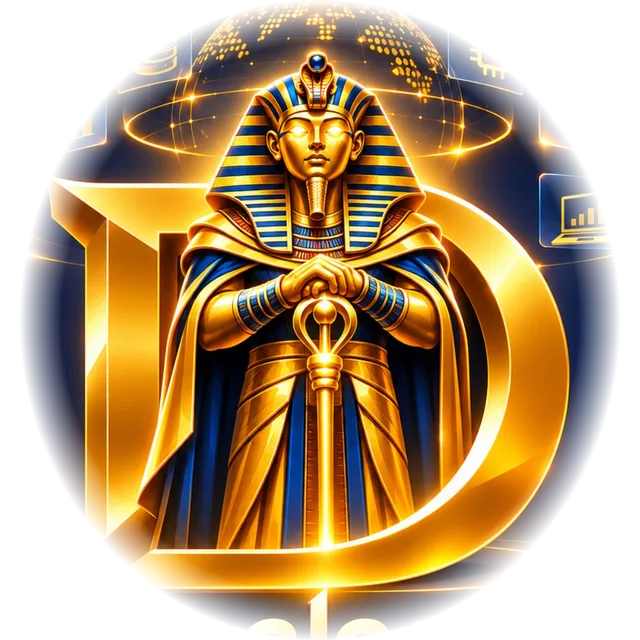
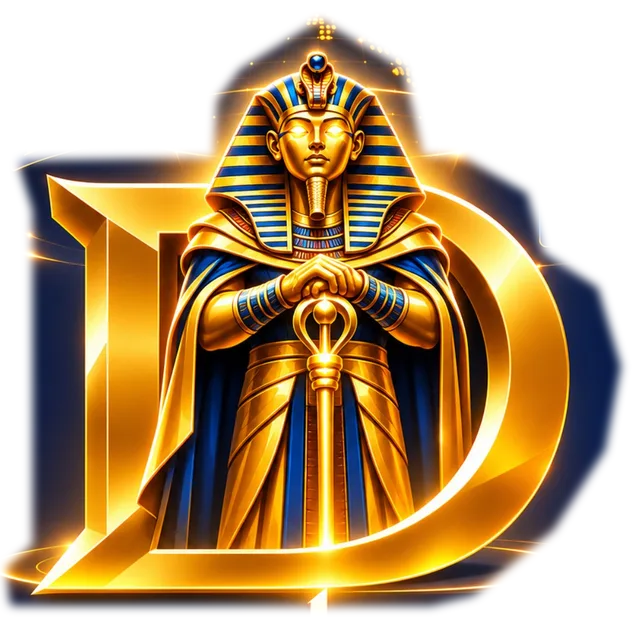
Remove sources page and source names; linked-circle dock; emblem outline; page purpose lines

Changed region(s): [[0.0, 0.0, 1.0, 1.0]]

diff --git a/src/panels/guide.html b/src/panels/guide.html
@@ -1,10 +1,28 @@
-<section id="faq"><div class="section-head"><h2>أسئلة الذهب — دليل سريع للمعلومة</h2></div><details><summary>سعر الذهب كام، وأقدر أبيع ذهبي بكام؟</summary><p>كل بطاقة في صفحة السوق تعرض السعرين: السعر الذي يبيع به التاجر لك، والسعر الذي يشتري به منك، والفرق بينهما.</p></details><details><summary>إيه الدولار الضمني؟ وهل أقدر أشتري دولار بالسعر ده؟</summary><p>قسمة سعر جرام 24 المحلي على قيمته العالمية بالدولار. مؤشر مستنتج من الذهب وليس سعر صرف قابلًا للتنفيذ.</p></details><details><summary>المصنعية والدمغة والضريبة داخلين في الأرقام؟</summary><p>حسابات المقارنة والجرامات لا تشملها. نحتاج عرضًا نهائيًا معلنًا للمنتج لتحديد تكلفته؛ لا نقدّر السعر النهائي للجنيه الذهب بضرب الجرام في الوزن.</p></details><details><summary>أعرف منين السعر حديث؟</summary><p>تحت كل بطاقة وقت المصدر، وفي الجدول وقت الجلب منفصلًا. شارة المقارنة تميز القراءات المتزامنة عن الحساب الاسترشادي. تحديث الصفحة لا يعني صدور سعر جديد من البنك.</p></details><details><summary>المتوسطات والنطاقات بتحدد القاع؟</summary><p>تصف الحركة التاريخية والافتراضات الحسابية ولا تضمن اتجاهًا أو قاعًا. التوقعات آراء مؤرخة، وحالة توثيق كل جهة ظاهرة معها.</p></details><details><summary>الجنيه الذهب أرخص فين؟ وهل فيه تنبيهات؟</summary><p>في أسعار المنتجات تجد ربع ونصف الجنيه والجنيه والسبائك والأونصة، مع الرسوم وحالة التوثيق. تنبيهات الزوار لم تُفعّل بعد. لا نعلن الأرخص عند غياب عروض نهائية متزامنة لنفس المنتج.</p></details><details><summary>أقدر أشتري من المنصة أو أشترك في التنبيهات؟</summary><p>المنصة للمتابعة وعرض المصادر؛ الشراء والسعر النهائي لدى المتجر صاحب العرض. تنبيهات الزوار لم تُفعّل بعد.</p></details><details><summary>هل كل الأسعار المعروضة نهائية وشاملة المصنعية؟</summary><p>سعر الجرام في السوق بدون مصنعية. عروض المنتجات تسجل ما أعلنه المتجر؛ إذا لم يتأكد شمول رسوم أو وقت السعر يظهر ذلك بجوار العرض. لا يعني جمع الصفحة الآن أن المتجر أصدر السعر الآن.</p></details><details><summary>إزاي أبلّغ عن رقم أو مصدر فيه مشكلة؟</summary><p><a href="https://github.com/ahmedmah1989/gold-board/issues/new" target="_blank" rel="noopener">أرسل ملاحظة عن البيانات ↗</a>. البلاغ يفتح على GitHub وقد يحتاج حسابًا ويكون ظاهرًا للعامة؛ لا تكتب معلومات شخصية أو مفاتيح سرية.</p></details><details><summary>هل المنصة تطلب بيانات شخصية؟</summary><p>قراءة الأسعار والحاسبة لا تحتاج حسابًا أو بيانات تواصل. مراجع التنبيهات المحلية تُحفظ في متصفحك. جلب الأونصة يتصل من متصفحك بمزوّد Gold API، والرسم المباشر بخدمة TradingView الخارجية، كما تفتح روابط المنتجات مواقع المتاجر.</p></details><details><summary>أشتري دلوقتي ولا أستنى؟</summary><p>المنصة تعرض السعر والفجوة والاتجاه وحدود البيانات، ولا تصدر قرار شراء آليًا. غياب توثيق المصدر أو التكاليف النهائية يعني أن المعروض وحده لا يكفي لحسم القرار.</p></details></section><section id="method"><h2>طريقة الحساب وحدود البيانات</h2><details><summary>المعادلات المستخدمة</summary><ul><li>جرام 24 بالدولار = سعر الأونصة ÷ 31.1034768.</li><li>القيمة العالمية بالجنيه = جرام 24 بالدولار × سعر بيع الدولار في بنك مصر.</li><li>الفجوة = بيع عيار 24 المحلي − القيمة العالمية بالجنيه؛ نسبتها محسوبة على القيمة العالمية.</li><li>الدولار الضمني = بيع جرام 24 المحلي ÷ قيمته العالمية بالدولار.</li><li>نقاوة عيار 21 = 21 ÷ 24. المقارنة لا تشمل رسوم المنتج النهائي.</li></ul></details><details><summary>كيف تقرأ حالة المقارنة؟</summary><p>«متزامنة» عندما تكون أوقات المصادر في آخر 5 دقائق والفارق بينها لا يتجاوز 5 دقائق. خلاف ذلك تُعرض المقارنة كحساب استرشادي من آخر أسعار منشورة، مع أوقاتها، ولا تعتبر إشارة لحظية. تُحجب المقارنة عند فقد مصدر أو وقت تسعير، أو إذا تجاوز عمر أي قراءة 24 ساعة أو كان توقيتها في المستقبل بأكثر من دقيقتين.</p><p>صحة الحساب لا تضمن صحة مصدر خارجي أو إمكانية تنفيذ صفقة. التوقعات محفوظة في قسم التحليل بحالة تدقيق كل مصدر. القمم اليومية محسوبة من السلسلة المرجعية ولا تعني أعلى سعر محلي خلال الجلسة.</p></details><details><summary>أساس كل قاعدة في التحليل</summary><ul>
-<li><strong>القيمة العالمية المحوّلة (حساب مباشر):</strong> الأونصة × الدولار ÷ 31.1034768 جرام × 0.875 (نقاوة عيار 21). هذا سعر الخام بدون مصنعية ولا دمغة.</li>
-<li><strong>حدود العلاوة 2% و4% (حد تقديري):</strong> حدود وصفية اختيرت للواجهة وليست معيارًا مثبتًا للسعر العادل. لا تثبت جودة العرض أو شمول رسومه.</li>
-<li><strong>عيار 18 (محسوب):</strong> سعر عيار 24 المنشور × 18 ÷ 24. ليس سعرًا منشورًا من المصدر، وقد يختلف قليلًا عن سعر التاجر.</li>
-<li><strong>المتوسطات وقراءة الاتجاه:</strong> توجد أبحاث عن متابعة الاتجاه، لكن نتيجة استراتيجية على مؤشر أو سلع لا تثبت صلاحيتها للذهب المصري. اللوحة تعرض متوسط 50 و200 قراءة مرجعية، ولا تنفذ استراتيجية شراء. <a href="https://mebfaber.com/white-papers/" target="_blank" rel="noopener">أبحاث المؤلف الأصلية</a></li>
-<li><strong>دفعات أم مبلغ واحد؟</strong> وجدت Vanguard تفوق الاستثمار مرة واحدة في نحو ثلثي المقارنات التاريخية التي درستها؛ النتيجة تخص أسواق الدراسة وليست اختبارًا مباشرًا للذهب المصري. <a href="https://www.vanguard.co.uk/professional/vanguard-365/financial-planning/financial-well-being/cost-averaging" target="_blank" rel="noopener">بحث Vanguard</a></li>
-<li><strong>نطاق الشهر الإحصائي (حساب مباشر):</strong> من تذبذب آخر 60 قراءة يومية. يفترض ثبات التذبذب، والحركات الكبيرة تحصل في الواقع أكثر مما يتوقعه هذا الحساب.</li>
-<li><strong>حجم الذهب من المدخرات (رأي محللين):</strong> UBS تقترح أن يكون الذهب نسبة محدودة من إجمالي الاستثمارات، من خانة الآحاد المتوسطة وفق رأيها المنشور، وليست نسبة مناسبة تلقائيًا لكل شخص. <a href="https://www.ubs.com/global/en/wealthmanagement/insights/marketnews/article.3875359.html" target="_blank" rel="noopener">المصدر</a></li>
-<li><strong>البيانات:</strong> المرجع العالمي من gold-api.com، والدولار من سعر بيع النقد المنشور لبنك مصر، والتاريخي اليومي من مشروع currency-api مفتوح المصدر. البيانات التاريخية مرجعية وتحتاج تدقيقًا مستقلًا قبل استخدامها في قرار.</li>
-</ul></details></section><section id="coverage"><div class="section-head"><h2>خريطة التغطية — ما الموجود وما الذي ينقص؟</h2></div><div class="coverage-grid"><article><span class="badge good">متاح</span><h3>الأسعار والحسابات الأساسية</h3><p>عيارا 24 و21، بنك مصر، الأونصة، الفجوة، الدولار الضمني، حاسبة المبلغ وأوقات المصادر.</p></article><article><span class="badge">تحقق جزئي</span><h3>التحليل والتوقعات</h3><p>الرسم والمتوسطات والهبوط والتذبذب من سلسلة مرجعية تحتاج مطابقة مستقلة؛ التوقعات لها حالات توثيق منفصلة.</p></article><article><span class="badge">تغطية جزئية</span><h3>المنتجات والخدمات الإضافية</h3><p>Telegram موصول وحالته ظاهرة. ربع ونصف الجنيه والجنيه والسبائك والأونصة الفعلية بصفحاتها الأصلية؛ الرسوم الناقصة والتوافر ظاهرين دون ترتيب مضلل. الأهلي والمركزي غير متاحين من القراءة الرسمية الحالية؛ لا توجد مقارنة نهائية بين ثلاثة متاجر مستوفية للشروط.</p></article></div></section>
+<section id="faq">
+<p class="x-lead">إجابات قصيرة عن أكثر ما يُسأل عنه في سعر الذهب.</p>
+<details><summary>أشتري بكام وأبيع بكام؟</summary><p>صفحة السوق تعرض السعرين لكل عيار: السعر الذي يبيع به التاجر لك، والسعر الذي يشتري به منك. الفرق بينهما هو ما تخسره في الجرام لو اشتريت وبعت في نفس اللحظة.</p></details>
+<details><summary>الأسعار شاملة المصنعية والدمغة؟</summary><p>لا. سعر الجرام في السوق بدون مصنعية ولا دمغة ولا ضريبة. استخدم الحاسبة لإضافتها، أو «افحص الفاتورة» لتعرف كم دفعت فوق قيمة الذهب.</p></details>
+<details><summary>يعني إيه مؤشر دهبولوجي؟</summary><p>يقارن سعر الذهب في مصر بقيمته العالمية بعد تحويلها بالدولار. لو المؤشر موجب فالسعر المحلي أعلى من العالمي، ولو سالب فهو أقل. حدود 2% و4% للقراءة السريعة فقط، وليست معيارًا للسعر العادل.</p></details>
+<details><summary>إيه الدولار الضمني؟ وهل أقدر أشتري دولار بيه؟</summary><p>هو سعر الدولار الذي يجعل سعر الذهب المحلي مساويًا للعالمي. مؤشر مستنتج من الذهب، وليس سعر صرف يمكن التنفيذ به.</p></details>
+<details><summary>عيار 18 مكتوب عليه «محسوب». ليه؟</summary><p>سعر عيار 18 نحسبه من عيار 24 بنسبة النقاوة (18 ÷ 24)، وقد يختلف قليلًا عن سعر التاجر.</p></details>
+<details><summary>أعرف منين إن السعر حديث؟</summary><p>تحت كل سعر وقت آخر تحديث له. لو مرّ على السعر أكثر من 24 ساعة يختفي ولا نعرضه، والمقارنة مع العالمي تتوقف لو أحد أطرافها غير متاح.</p></details>
+<details><summary>أسعار الجنيه والسبائك بتاعة مين؟</summary><p>في صفحة المنتجات كل عرض مكتوب عليه اسم المتجر الذي نشره، ومعه رابط صفحة المنتج عنده. الشراء والسعر النهائي عند المتجر نفسه.</p></details>
+<details><summary>دهبي بيحفظ بياناتي فين؟</summary><p>على جهازك فقط، داخل المتصفح. لا تُرسل لأي خادم، ولو مسحت بيانات المتصفح أو فتحت من جهاز آخر لن تظهر.</p></details>
+<details><summary>أشتري دلوقتي ولا أستنى؟</summary><p>دهبولوجي يعرض السعر والفجوة والاتجاه، ولا يصدر قرار شراء. التحليل وصف لما حصل، والتوقعات آراء قد تخطئ، والقرار لك.</p></details>
+</section>
+<section id="method"><h2>طريقة الحساب</h2>
+<details><summary>المعادلات المستخدمة</summary><ul>
+<li>جرام 24 بالدولار = سعر الأونصة ÷ 31.1034768.</li>
+<li>القيمة العالمية بالجنيه = جرام 24 بالدولار × سعر بيع الدولار في البنك.</li>
+<li>الفجوة = سعر بيع عيار 24 المحلي − القيمة العالمية بالجنيه، ونسبتها محسوبة على القيمة العالمية.</li>
+<li>الدولار الضمني = سعر بيع جرام 24 المحلي ÷ قيمته العالمية بالدولار.</li>
+<li>عيار 21 = 21 ÷ 24 من عيار 24، وعيار 18 = 18 ÷ 24.</li>
+</ul></details>
+<details><summary>أساس قراءات التحليل</summary><ul>
+<li><strong>المتوسطات والاتجاه:</strong> متوسط آخر 50 و200 قراءة يومية للأونصة. وصف للاتجاه، وليس استراتيجية شراء.</li>
+<li><strong>نطاق الشهر:</strong> من تذبذب آخر 60 قراءة يومية. يفترض ثبات التذبذب، والحركات الكبيرة تحصل في الواقع أكثر مما يتوقعه الحساب.</li>
+<li><strong>التوقعات:</strong> آراء بنوك ومحللين منسوبة لأصحابها بتاريخ نشرها، ولا تدخل في أي حساب.</li>
+<li><strong>البيانات التاريخية:</strong> قراءات مرجعية يومية وليست إغلاقات بورصة موثقة.</li>
+</ul></details>
+<details><summary>حدود الأرقام</summary><p>كل المقارنات قبل المصنعية والدمغة والضريبة، ولا تمثل سعر منتج نهائي. صحة الحساب لا تضمن إمكانية تنفيذ صفقة بنفس السعر. ما نعرضه للمتابعة والفهم، وليس نصيحة استثمار شخصية.</p></details>
+</section>

diff --git a/public/app.css b/public/app.css
@@ -40,28 +40,58 @@ header.x-top h1{margin:0;text-align:center;font-size:21px;line-height:1.4;font-w
 @keyframes x-spin{to{rotate:360deg}}
 .x-status{margin:10px 0 0;text-align:center;font-size:13px;color:#a9b8d0}
 
-/* ---------- dock ---------- */
+/* ---------- dock: a chain of glowing circles ---------- */
 .x-dock{
+  --d:clamp(56px,16.5vw,68px);
   position:fixed;z-index:60;left:50%;translate:-50% 0;bottom:calc(12px + env(safe-area-inset-bottom));
-  width:min(calc(100vw - 20px),460px);display:grid;grid-template-columns:repeat(5,1fr);align-items:end;
-  padding:8px 6px;border-radius:26px;background:#0c1a2ff2;backdrop-filter:blur(18px);
-  border:1px solid #efc66c66;box-shadow:0 12px 40px #000a,0 0 24px #ffd84a1f;
+  display:flex;align-items:center;justify-content:center;pointer-events:none;
 }
-.x-dock a,.x-dock summary{
-  display:flex;flex-direction:column;align-items:center;gap:2px;color:#b9c7da;text-decoration:none;
-  font-size:13px;font-weight:700;line-height:1.5;padding:4px 2px;border-radius:14px;cursor:pointer;list-style:none;-webkit-tap-highlight-color:transparent;
+.x-dock::before{content:"";position:absolute;inset:-22px -46px -30px;z-index:-2;pointer-events:none;
+  background:radial-gradient(ellipse 60% 70% at 50% 62%,#0a1628f5 40%,#0a162800 78%)}
+.x-dock>a,.x-dock>details>summary{
+  pointer-events:auto;position:relative;flex:none;width:var(--d);height:var(--d);border-radius:50%;
+  margin-inline:calc(var(--d) * -.055);
+  display:flex;flex-direction:column;align-items:center;justify-content:center;
+  color:#d6e0ee;font-size:11px;font-weight:700;line-height:1.35;text-decoration:none;cursor:pointer;list-style:none;
+  background:radial-gradient(circle at 35% 25%,#2a466e,var(--x-navy2) 45%,var(--x-navy) 82%);
+  border:2px solid var(--x-gold);box-shadow:0 0 0 3px var(--x-night),0 8px 20px #000b;
+  transition:translate .2s,box-shadow .2s,border-color .2s;-webkit-tap-highlight-color:transparent;
 }
 .x-dock summary::-webkit-details-marker{display:none}
-.x-dock svg{width:25px;height:25px;fill:none;stroke:currentColor;stroke-width:1.9;stroke-linecap:round;stroke-linejoin:round}
-.x-dock [aria-current=page],.x-dock details[open]>summary,.x-dock details.on>summary{color:var(--x-gold-hot)}
-.x-dock [aria-current=page] svg{filter:drop-shadow(0 0 6px #ffd84a)}
-.x-dock .x-dock-home img{width:58px;height:58px;margin-top:-30px;object-fit:contain;filter:drop-shadow(0 0 12px #ffd84a99)}
-.x-dock details{position:static;padding:0;margin:0;border:0;background:none;box-shadow:none;backdrop-filter:none}
-.x-dock .x-more-menu{
-  position:absolute;inset-inline:0;bottom:calc(100% + 10px);display:grid;grid-template-columns:repeat(3,1fr);gap:8px;padding:12px;
-  background:#0c1a2ffa;border:1px solid #efc66c66;border-radius:22px;box-shadow:0 -10px 40px #000a;
+/* rays behind every circle */
+.x-dock>a::before,.x-dock>details>summary::before{
+  content:"";position:absolute;inset:-36%;border-radius:50%;z-index:-1;pointer-events:none;opacity:.55;
+  background:repeating-conic-gradient(from 0deg,#ffd84a80 0 3deg,transparent 3deg 18deg);
+  -webkit-mask:radial-gradient(circle,transparent 57%,#000 59%,transparent 78%);mask:radial-gradient(circle,transparent 57%,#000 59%,transparent 78%);
+  animation:x-spin 26s linear infinite;transition:opacity .3s;
 }
-.x-dock .x-more-menu a{padding:12px 4px;border:1px solid var(--x-line);background:#ffffff08;font-size:14px}
+.x-dock>a:nth-child(even)::before{animation-direction:reverse}
+.x-dock svg{width:22px;height:22px;fill:none;stroke:var(--x-gold);stroke-width:1.9;stroke-linecap:round;stroke-linejoin:round}
+.x-dock>a:hover,.x-dock>details>summary:hover{translate:0 -4px}
+.x-dock>a:hover::before,.x-dock>details>summary:hover::before{opacity:1}
+.x-dock>[aria-current=page],.x-dock>details[open]>summary,.x-dock>details.on>summary{
+  z-index:2;translate:0 -8px;color:#fff;border-color:var(--x-bolt);
+  box-shadow:0 0 0 3px var(--x-night),0 0 0 5px #ffd84a33,0 0 26px #ffd84acc;
+}
+.x-dock>[aria-current=page]::before,.x-dock>details[open]>summary::before,.x-dock>details.on>summary::before{opacity:1;animation-duration:9s}
+.x-dock>.x-dock-home{z-index:3;width:calc(var(--d) * 1.3);height:calc(var(--d) * 1.3);translate:0 -10px;background:radial-gradient(circle at 50% 35%,#22395c,var(--x-night) 78%);border-width:2.5px;box-shadow:0 0 0 3px var(--x-night),0 0 28px #ffd84a88}
+.x-dock>.x-dock-home:hover{translate:0 -14px}
+.x-dock>.x-dock-home::before{opacity:.9;animation-duration:18s}
+.x-dock-home img{width:88%;height:88%;object-fit:contain;filter:drop-shadow(0 0 6px #ffd84a66)}
+.x-dock-home span{position:absolute;width:1px;height:1px;overflow:hidden;clip-path:inset(50%)}
+.x-dock>details{position:static;flex:none;padding:0;margin:0;border:0;background:none;box-shadow:none;backdrop-filter:none}
+.x-dock .x-more-menu{
+  pointer-events:auto;position:absolute;left:50%;translate:-50% 0;bottom:calc(100% + 26px);width:max-content;max-width:94vw;
+  display:flex;flex-wrap:wrap;justify-content:center;gap:12px;padding:16px 18px;
+  background:#0c1a2ffa;border:1px solid #efc66c66;border-radius:30px;box-shadow:0 -10px 40px #000a;
+}
+.x-dock .x-more-menu a{
+  width:74px;height:74px;border-radius:50%;display:flex;flex-direction:column;align-items:center;justify-content:center;gap:1px;
+  color:#fff;font-size:11.5px;font-weight:700;line-height:1.3;text-align:center;text-decoration:none;
+  background:radial-gradient(circle at 35% 25%,#2a466e,var(--x-navy2) 45%,var(--x-navy) 82%);border:2px solid #efc66cb0;
+}
+.x-dock .x-more-menu a[aria-current=page]{border-color:var(--x-bolt);box-shadow:0 0 20px #ffd84aaa}
+@media (prefers-reduced-motion:reduce){.x-dock>a::before,.x-dock>details>summary::before{animation:none}}
 footer{background:none;border:0;text-align:center;font-size:13px;color:#93a4bd;padding:26px 0 10px}
 
 /* ---------- calm pass over the older pages ---------- */

diff --git a/src/panels/analysis.html b/src/panels/analysis.html
@@ -1,4 +1,5 @@
 <section id="analysis" class="analytics">
+<p class="x-lead">ثلاث قراءات سريعة للسوق. اضغط أي دائرة لتعرف معناها.</p>
 <div class="x-reads" role="group" aria-label="قراءات السوق">
 <button type="button" class="x-read" data-open="read1"><span>السعر مقابل العالمي</span><span class="tag none" id="t1">—</span></button>
 <button type="button" class="x-read" data-open="read2"><span>اتجاه السعر</span><span class="tag none" id="t2">—</span></button>
@@ -67,7 +68,7 @@
     <div class="line"><span>الفرق عن سعر شرائك</span><b id="myrefDiff">—</b></div>
     <div class="line"><span>الفرق على كل الكمية</span><b id="myrefTotal">—</b></div>
   </div>
-  <p class="x-note" style="text-align:start">المقارنة بسعر شراء التاجر من آخر قراءة آي صاغة. المصنعية التي دفعتها لا تُسترد، فأضفها إلى سعر شرائك لو أردت الخسارة الفعلية. البيانات على جهازك فقط.</p></details>
+  <p class="x-note" style="text-align:start">المقارنة بسعر شراء التاجر من آخر تحديث. المصنعية التي دفعتها لا تُسترد، فأضفها إلى سعر شرائك لو أردت الخسارة الفعلية. البيانات على جهازك فقط.</p></details>
 
 <details class="x-more"><summary>راجع نفسك قبل قرار الشراء</summary>
   <ul class="plain">
@@ -77,11 +78,6 @@
     <li>مشغولات للادخار. المصنعية لا تُسترد عند البيع، فالسبائك والجنيهات أنسب.</li>
   </ul></details>
 
-<details class="x-more"><summary>من أين هذه الأرقام وما حدودها؟</summary>
-  <p id="historyQuality">فحص تغطية السلسلة اليومية…</p>
-  <p>سلسلة أسعار مرجعية يومية، باستبعاد السبت والأحد فقط؛ لم يُطبّق تقويم مستقل لعطلات البورصات. القيم ليست إغلاقات رسمية موثقة، والرسم والمؤشرات بتاريخ آخر قراءة يومية وليست أسعارًا لحظية.</p>
-  <p id="historyAuditStatus">تحميل سجل التدقيق…</p>
-  <p><a href="data/audit.json" target="_blank" rel="noopener">تفاصيل الحسابات والعينة وتواريخها ↗</a> · <a href="#method">طريقة الحساب وأساس كل قاعدة ←</a></p></details>
-
-<p class="x-note">قواعد ثابتة ومصادر منشورة، وليست توقعًا مضمونًا ولا نصيحة استثمار شخصية. القرار النهائي لك.</p>
+<p class="x-note">الرسم والمؤشرات من قراءات يومية مرجعية، وليست أسعارًا لحظية ولا توقعًا مضمونًا ولا نصيحة استثمار شخصية. <a href="#method">طريقة الحساب ←</a></p>
+<span id="historyQuality" hidden></span><span id="historyAuditStatus" hidden></span>
 </section>

diff --git a/public/js/analytics.js b/public/js/analytics.js
@@ -129,7 +129,7 @@
       lines.forEach(function(t,i){var d=document.createElement("div"); if(i===0) d.className="v"; d.textContent=t; li.appendChild(d)});
       var s=document.createElement("span"); s.className="ev"; s.textContent=src; li.appendChild(s); box.appendChild(li);
     }
-    var basis='الأونصة المستخدمة '+fmt(oz)+' دولار، والدولار '+fmt(usd,2)+' جنيه. '+(num($("oz").value)>0&&num($("usd").value)>0?'آخر قراءات صالحة من بطاقات السوق؛ راجع حالة تزامنها.':'مرجع يومي '+M.last.d+'، وسعر صرف ضمني من نفس السلسلة؛ ليس سعر بنك مصر الحالي.')+' السعر المحوّل ليس سعر منتج محلي نهائي.';
+    var basis='الأونصة المستخدمة '+fmt(oz)+' دولار، والدولار '+fmt(usd,2)+' جنيه. '+(num($("oz").value)>0&&num($("usd").value)>0?'آخر قراءات صالحة من بطاقات السوق؛ راجع حالة تزامنها.':'مرجع يومي '+M.last.d+'، وسعر صرف ضمني من نفس السلسلة؛ ليس سعر البنك الحالي.')+' السعر المحوّل ليس سعر منتج محلي نهائي.';
     if(sm!==null)item("1) سيناريو تذبذب لشهر — ليس توقعًا مضمونًا",
       ["القيمة العالمية المحوّلة لجرام 21 بين "+fmt(k21(a1,usd))+" و"+fmt(k21(b1,usd))+" جنيه (الأونصة "+fmt(a1)+"–"+fmt(b1)+" $)",
        "نطاق ±انحراف معياري للعوائد اللوغاريتمية، بصفر انجراف وثبات الدولار والتذبذب؛ ليس احتمالًا مُعايرًا لنتيجة السوق. نطاق ±انحرافين: "+fmt(k21(a2,usd))+"–"+fmt(k21(b2,usd))+" جنيه."],basis);
@@ -178,7 +178,7 @@
     var part=function(n){return (bud>0)?" ("+fmt(bud/n)+" جنيه"+(loc>0?" ≈ "+fmt(bud/n/loc,2)+" جرام":"")+")":""};
     if(!(oz>0&&usd>0)){ sig.classList.add("info"); H.textContent="حسابات السعر الحالي معلقة"; T.textContent="انتظار مصادر صالحة تلقائيًا. الرسم والمؤشرات اليومية يحتفظان بتاريخ آخر قراءة مرجعية؛ لا يُعاد وصفها كأسعار حالية."; return; }
     sig.classList.add("info"); H.textContent="قراءة وصفية للمؤشرات — بدون قرار شراء آلي";
-    T.textContent="التحليل الحالي يستخدم سعر بيع بنك مصر المنشور. اتجاه السعر والتذبذب أوصاف حسابية، والتوقعات آراء مؤرخة بحالات توثيق مستقلة؛ لا تتجمع تلقائيًا في توصية شراء."; return;
+    T.textContent="اتجاه السعر والتذبذب أوصاف حسابية، والتوقعات آراء مؤرخة بحالات توثيق مستقلة؛ لا تتجمع تلقائيًا في توصية شراء."; return;
   }
 
 

diff --git a/src/panels/products.html b/src/panels/products.html
@@ -1,4 +1,5 @@
 <section id="products">
+<p class="x-lead">اختر المنتج لتشوف سعره عند كل متجر.</p>
 <div class="x-karats x-kinds" role="group" aria-label="نوع المنتج">
 <button type="button" class="x-karat" data-product-kind="quarter" aria-pressed="false"><span><b>ربع</b>جنيه</span></button>
 <button type="button" class="x-karat" data-product-kind="half" aria-pressed="false"><span><b>نصف</b>جنيه</span></button>
@@ -12,6 +13,6 @@
 <a id="productPermalink" href="#products/pound" hidden>رابط مباشر</a>
 
 <details class="x-more x-fold"><summary>راجع قبل الشراء</summary><p>راجع الوزن والعيار والماركة وإجمالي الفاتورة وشمول الرسوم والشحن وشروط إعادة الشراء والتغليف مع المتجر. ظهور سعر أو زر شراء في المصدر لا يثبت حداثة السعر أو التوافر.</p><p>وقت الرصد هو وقت قراءة صفحة المتجر، وليس وقت إصدار سعر جديد. لا نعرض ترتيب الأرخص إلا لعروض نهائية موثقة ومتزامنة لنفس المنتج. المنصة لا تنفذ عمليات شراء ولا تؤكد المخزون.</p></details>
-<details class="x-more x-fold"><summary>جدول التوثيق التفصيلي</summary><div class="table-wrap"><table><thead><tr><th>المتجر</th><th>المنتج</th><th>السعر المنشور</th><th>شمول الرسوم</th><th>وقت تسعير المنتج</th><th>آخر رصد</th><th>أهلية المقارنة</th></tr></thead><tbody id="offerRows"></tbody></table></div><p><a href="data/offers.json" target="_blank" rel="noopener">بيانات المنتجات ومصادرها كاملة ↗</a></p></details>
+<details class="x-more x-fold"><summary>جدول التوثيق التفصيلي</summary><div class="table-wrap"><table><thead><tr><th>المتجر</th><th>المنتج</th><th>السعر المنشور</th><th>شمول الرسوم</th><th>وقت تسعير المنتج</th><th>آخر رصد</th><th>أهلية المقارنة</th></tr></thead><tbody id="offerRows"></tbody></table></div></details>
 <details class="x-more x-fold"><summary>الفرق بين الأونصة العالمية والأونصة الفعلية</summary><p>السعر العالمي مؤشر بالدولار للأونصة الترويسية، التي تساوي 31.1034768 جرامًا. الأونصة الفعلية هنا سبيكة من متجر، وسعرها بالجنيه وفق عرضه. لا نخلطها مع سبيكة مكتوب عليها 31.1 جرام، ولا نحسب ثمنها النهائي بضرب سعر الجرام في الوزن.</p></details>
 </section>

diff --git a/src/panels/market.html b/src/panels/market.html
@@ -23,17 +23,17 @@
 <div class="line"><span>القيمة العالمية لجرام 21</span><b id="global21">—</b></div>
 <div class="line"><span>الدولار الضمني من الذهب</span><b id="implied">—</b></div>
 <div class="line"><span>فرقه عن سعر بيع البنك</span><b><span id="fxGap">—</span> (<span id="fxPercent">—</span>)</b></div>
-<p class="x-note"><span class="badge" id="qualityBadge">التحقق من المصادر</span><br><span id="qualityText">تظهر حالة التوقيت فور وصول البيانات.</span></p>
+<p class="x-note"><span class="badge" id="qualityBadge">فحص الأسعار</span><br><span id="qualityText">تظهر حالة التوقيت فور وصول البيانات.</span></p>
 <p class="x-note">حدود 2% و4% وصفية للقراءة السريعة وليست معيارًا للسعر العادل. القيم قبل المصنعية والدمغة والضرائب. الدولار الضمني مؤشر مستنتج وليس سعر صرف للتنفيذ.</p>
 <span id="gapPercent" hidden></span>
 </details></section>
 
 <div class="x-pair">
-<div class="x-chip"><span>الدولار • بنك مصر</span><b id="priceBank">—</b><i id="timeBank">في انتظار المصدر</i></div>
-<div class="x-chip"><span>الأونصة العالمية</span><b id="priceOunce">—</b><i id="timeOunce">في انتظار المصدر</i></div>
+<div class="x-chip"><span>الدولار في البنك</span><b id="priceBank">—</b><i id="bankTime"></i></div>
+<div class="x-chip"><span>الأونصة العالمية</span><b id="priceOunce">—</b><i id="ounceTime"></i></div>
 </div>
 
-<section id="retailOverview" class="x-card"><h2>الجنيه والسبائك</h2><p class="x-sub">أمثلة لأسعار منشورة من المتاجر</p>
+<section id="retailOverview" class="x-card"><h2>الجنيه والسبائك</h2><p class="x-sub">أسعار منشورة من المتاجر</p>
 <div id="productSummary" class="product-summary-grid x-scroller" aria-live="polite"><p class="x-note">تحميل أسعار المنتجات…</p></div>
 <div class="x-actions"><a class="x-btn ghost" href="#products">كل المنتجات والمتاجر</a></div></section>
 

diff --git a/public/js/tools.js b/public/js/tools.js
@@ -61,7 +61,7 @@
     if (p && !$('invPrice').dataset.edited) $('invPrice').value = Math.round(p.sell * 100) / 100;
     const sell = num($('invPrice').value);
     const r = inspect({ sell, buy: p ? p.buy : NaN, grams: num($('invGrams').value), total: num($('invTotal').value), vat: num($('invVat').value) });
-    set('invNote', $('invPrice').dataset.edited ? 'الحساب بسعر الجرام الذي أدخلته.' : a ? 'سعر الجرام من آخر قراءة آي صاغة: ' + when(a.sourceTime) + '.' : 'في انتظار السعر؛ تقدر تكتب سعر الجرام يوم الشراء بنفسك.');
+    set('invNote', $('invPrice').dataset.edited ? 'الحساب بسعر الجرام الذي أدخلته.' : a ? 'سعر الجرام من آخر تحديث: ' + when(a.sourceTime) + '.' : 'في انتظار السعر؛ تقدر تكتب سعر الجرام يوم الشراء بنفسك.');
     const share = r && !r.belowGold ? Math.min(100, Math.max(0, r.extraPercent)) : 0, donut = $('invDonut');
     if (donut) { donut.style.strokeDasharray = share + ' ' + (100 - share); set('invDonutPct', r && !r.belowGold ? nf(r.extraPercent, 1) + '%' : '—'); }
     const v = $('invVerdict');
@@ -139,10 +139,10 @@
     });
     x.textAlign = 'center'; x.fillStyle = '#d8e3f0'; x.font = F(600, 36);
     const extras = [];
-    if (usable(s.misr)) extras.push('الدولار في بنك مصر ' + nf(s.misr.sell));
+    if (usable(s.misr)) extras.push('الدولار في البنك ' + nf(s.misr.sell));
     if (usable(s.gold)) extras.push('الأونصة ' + nf(s.gold.sell) + ' $');
     if (extras.length) x.fillText(extras.join('   •   '), 540, 1110);
-    x.fillStyle = '#acbdd2'; x.font = F(500, 30); x.fillText('سعر الجرام بالجنيه بدون مصنعية • المصدر: آي صاغة', 540, 1200);
+    x.fillStyle = '#acbdd2'; x.font = F(500, 30); x.fillText('سعر الجرام بالجنيه بدون مصنعية', 540, 1200);
     x.fillStyle = '#e7bf67'; x.font = F(700, 34); x.fillText(location.host + (B === '/' ? '' : B.replace(/\/$/, '')), 540, 1270);
     return (await fetch(c.toDataURL('image/png'))).blob();
   }

diff --git a/public/js/alerts.js b/public/js/alerts.js
@@ -20,11 +20,11 @@
   window.addEventListener('gold-board-updated',event=>{
     const box=document.getElementById('localAlerts'),status=document.getElementById('alertStatus');if(!box||!status)return;
     const s=event.detail.sources,q=event.detail.quality,r=event.detail.result;
-    if(!localUsable(s.isagha)){status.textContent='انتظار آي صاغة حديثة لمتابعة القمم والهبوط. تنبيهات الفجوة تحتاج كل مصادرها حديثة ومتزامنة.';return;}
+    if(!localUsable(s.isagha)){status.textContent='انتظار سعر محلي حديث لمتابعة القمم والهبوط.';return;}
     const a=s.isagha,gapReady=q?.fresh&&r,current={gapEGP:gapReady?r.gapEGP:NaN,gapPercent:gapReady?r.gapPercent:NaN,fxGap:gapReady?r.fxGap:NaN,fxPercent:gapReady?r.fxPercent:NaN,local24:a['24'].sell,local21:a['21'].sell};
     const previous=previousLocal?{...previousLocal,gapEGP:previousComparison?.gapEGP,gapPercent:previousComparison?.gapPercent,fxGap:previousComparison?.fxGap,fxPercent:previousComparison?.fxPercent}:null;
     const notices=changes(previous,current);
-    status.textContent=notices.length?'تحققت شروط تغير مهمة؛ تظهر هنا بصورة مستقلة عن رسائل Telegram.':gapReady?'لا تغير مهم؛ أول مرجع لكل نوع يُنشأ صامتًا.':'المراقبة المحلية جاهزة؛ تنبيهات الفجوة تنتظر مصادر حديثة ومتزامنة.';
+    status.textContent=notices.length?'تحققت شروط تغير مهمة.':gapReady?'لا تغير مهم؛ أول مرجع لكل نوع يُنشأ صامتًا.':'المتابعة جاهزة؛ تنبيهات الفجوة تنتظر أسعارًا حديثة ومتزامنة.';
     if(!previousLocal||notices.length){
       const peak24=Math.max(previousLocal?.peak24||0,current.local24),peak21=Math.max(previousLocal?.peak21||0,current.local21);
       previousLocal={local24:current.local24,local21:current.local21,peak24,peak21,dd24:(peak24-current.local24)/peak24*100,dd21:(peak21-current.local21)/peak21*100};

diff --git a/public/js/board.js b/public/js/board.js
@@ -76,34 +76,6 @@
     if (badge) { badge.textContent = v.text; badge.className = 'meter-verdict v-' + v.key; }
     if ($('gapBig')) set('gapBig', r ? signed(r.gapPercent) + '%' : '—');
     myref();
-    sources(detail.sources);
-  }
-
-  /* ---- sources screen: how many of the three calculation sources answered, and one card per source ---- */
-  const SOURCES = [
-    ['isagha', 'آي صاغة', 'سعر الذهب المحلي', true],
-    ['misr', 'بنك مصر', 'سعر الدولار', true],
-    ['gold', 'Gold API', 'الأونصة العالمية', true],
-    ['nbe', 'البنك الأهلي', 'للمراجعة فقط، لا يدخل الحساب', false],
-    ['cbe', 'البنك المركزي', 'للمراجعة فقط، لا يدخل الحساب', false],
-  ];
-  const when = v => new Date(v).toLocaleString('ar-EG-u-nu-latn', { timeZone: 'Africa/Cairo', day: 'numeric', month: 'short', hour: 'numeric', minute: '2-digit' });
-  function sources(all) {
-    const box = $('srcCards'); if (!box) return;
-    box.replaceChildren();
-    let ok = 0, need = 0;
-    SOURCES.forEach(([key, name, role, used]) => {
-      const q = all[key], good = usable(q), fresh = good && Date.now() - Date.parse(q.sourceTime) <= 300000;
-      if (used) { need++; if (good) ok++; }
-      const it = document.createElement('div'); it.className = 'x-item';
-      const piece = (tag, cls, text) => { const e = document.createElement(tag); if (cls) e.className = cls; e.textContent = text; return e; };
-      it.append(
-        piece('b', '', name), piece('span', 'd ' + (fresh ? 'up' : good ? 'mid' : 'dn'), fresh ? 'حديث' : good ? 'آخر سعر منشور' : 'غير متاح'),
-        piece('span', 'w', role), piece('span', 'p', good ? when(q.sourceTime) : ''));
-      box.append(it);
-    });
-    set('srcCount', ok + ' / ' + need);
-    set('srcState', ok === need ? 'كل المصادر ردّت' : 'المقارنة تنتظر مصدرًا ناقصًا');
   }
 
   /* ---- compare with my purchase price (stays on this device) ---- */

diff --git a/public/js/market-view.js b/public/js/market-view.js
@@ -40,12 +40,15 @@
     $('heroPrice').textContent = q ? nf(q.sell) : '—';
     $('heroBuy').textContent = q ? nf(q.buy) : '—';
     $('heroSpread').textContent = q ? nf(q.sell - q.buy) + ' (' + nf((q.sell - q.buy) / q.sell * 100) + '%)' : '—';
-    $('heroTime').textContent = !last ? 'تحميل السعر…' : !q ? 'السعر غير متاح الآن من المصدر.' :
-      'آي صاغة • ' + when(a.sourceTime) + ' • بدون مصنعية' + (karat === '18' ? ' • عيار 18 محسوب من عيار 24' : '');
+    $('heroTime').textContent = !last ? 'تحميل السعر…' : !q ? 'السعر غير متاح الآن.' :
+      'آخر تحديث ' + when(a.sourceTime) + ' • بدون مصنعية' + (karat === '18' ? ' • عيار 18 محسوب من عيار 24' : '');
     const c = $('heroChange'), base = karat === '18' ? '24' : karat;
     const ch = q && history ? D.change(history, base, a[base].sell, new Date().toLocaleDateString('en-CA', { timeZone: 'Africa/Cairo' })) : null;
     c.className = 'chg' + (ch ? (ch.diff > 0 ? ' up' : ch.diff < 0 ? ' dn' : '') : '');
     c.textContent = ch ? (ch.diff > 0 ? '▲ ' : ch.diff < 0 ? '▼ ' : '') + signed(ch.percent) + '% عن أمس' : '';
+    const s = last ? last.sources : {};
+    $('bankTime').textContent = usable(s.misr) ? 'آخر تحديث ' + when(s.misr.sourceTime) : '';
+    $('ounceTime').textContent = usable(s.gold) ? 'آخر تحديث ' + when(s.gold.sourceTime) : '';
     const r = last && last.result;
     $('gaugeNeedle').style.transform = 'rotate(' + (r ? -90 + D.pin(r.gapPercent) * 1.8 : -90) + 'deg)';
     $('gaugeNeedle').style.opacity = r ? 1 : .25;

diff --git a/src/panels/live.html b/src/panels/live.html
@@ -1,6 +1,6 @@
 <section id="live">
-<p class="x-lead">الذهب مقابل الدولار • OANDA:XAUUSD</p>
+<p class="x-lead">حركة أونصة الذهب مقابل الدولار لحظة بلحظة.</p>
 <div class="live-chart-shell"><div id="liveChartEmbed" class="tradingview-widget-container" style="height:100%;width:100%"><div class="tradingview-widget-container__widget" style="height:calc(100% - 32px);width:100%"></div><div class="tradingview-widget-copyright"><a href="https://www.tradingview.com/symbols/XAUUSD/?exchange=OANDA" target="_blank" rel="noopener nofollow">Gold / US Dollar by TradingView ↗</a></div></div></div>
 <p class="x-note" id="liveChartStatus">تحميل الرسم…</p>
-<details class="x-more x-fold"><summary>الفرق بين الرسم وحسابات دهبولوجي</summary><p>الرسم يُحدّث من TradingView، وله مزود ورمز وتوقيت مستقل. حسابات الفجوة تستخدم Gold API وبنك مصر وآي صاغة كما هو موضح في المصادر؛ لا نستخرج قيم الحساب من الرسم المضمّن، وقد تختلف الأسعار بين المزودين.</p><p>لا نفترض أن كل رمز بلا تأخير؛ راجع حالة البيانات داخل الرسم. <a href="https://www.tradingview.com/widget-docs/faq/data/" target="_blank" rel="noopener">شرح TradingView لتوقيت البيانات ↗</a></p></details>
+<p class="x-note">الرسم للمتابعة، وقد يختلف سعره قليلًا عن سعر الأونصة المستخدم في حسابات دهبولوجي.</p>
 </section>

diff --git a/src/panels/wallet.html b/src/panels/wallet.html
@@ -1,4 +1,5 @@
 <section id="wallet">
+<p class="x-lead">سجّل ذهبك واعرف قيمته ومكسبك كل يوم.</p>
 <div class="x-hero sm" style="margin-top:16px"><div class="x-rays"></div><div class="x-ring" aria-live="polite"><span class="lbl">قيمة ذهبك الآن</span><b class="val fit" id="walNow">—</b><span class="chg" id="walDiff"></span></div></div>
 <div class="x-pair"><div class="x-chip"><span>ما دفعته</span><b id="walPaid">—</b></div><div class="x-chip"><span>الوزن</span><b id="walWeight">—</b></div></div>
 <p class="x-note" id="walGrams"></p>
@@ -20,5 +21,5 @@
 <label class="x-field sm">وصف (اختياري)<input id="walNoteIn" maxlength="40" placeholder="جنيه ذهب" autocomplete="off" style="direction:rtl"></label>
 <div class="x-actions"><button type="submit" class="x-btn">أضف إلى دهبي</button></div><p class="x-msg" id="walMsg" role="status"></p></form>
 
-<p class="x-note">القيمة بسعر شراء التاجر للجرام من آخر قراءة آي صاغة، والسعر الفعلي يحدده التاجر بعد فحص القطعة. المصنعية التي دفعتها لا تُسترد. البيانات محفوظة في متصفحك فقط ولا تُرسل لأي خادم.</p>
+<p class="x-note">القيمة بسعر شراء التاجر للجرام من آخر تحديث، والسعر الفعلي يحدده التاجر بعد فحص القطعة. المصنعية التي دفعتها لا تُسترد. البيانات محفوظة في متصفحك فقط ولا تُرسل لأي خادم.</p>
 </section>
